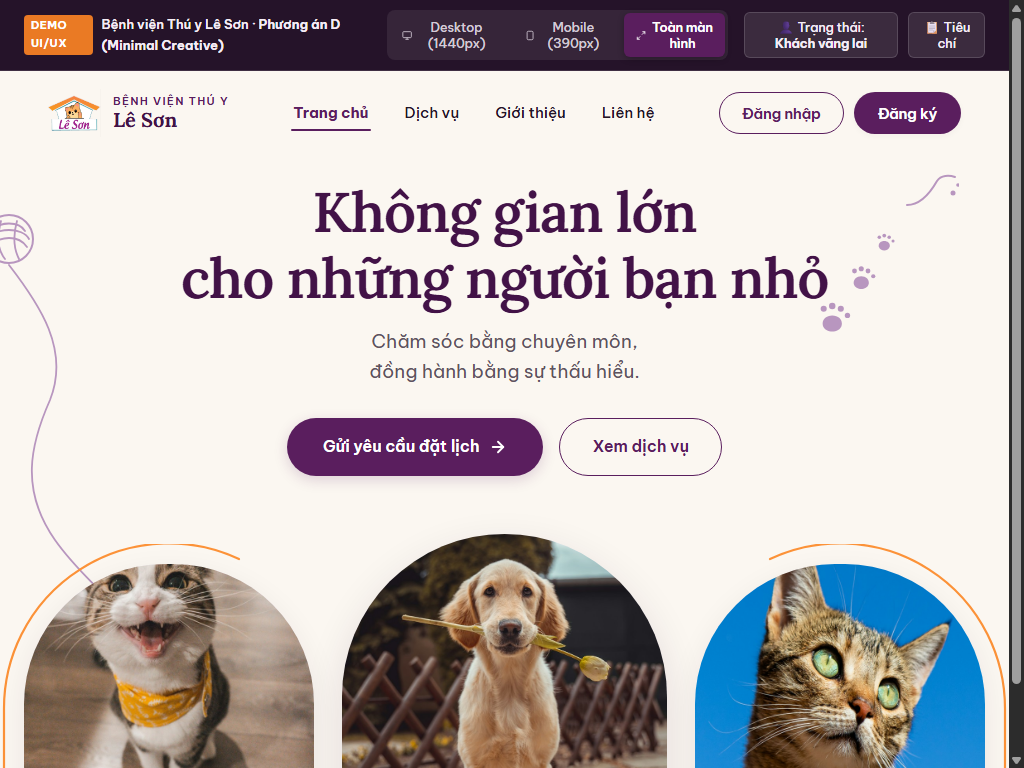
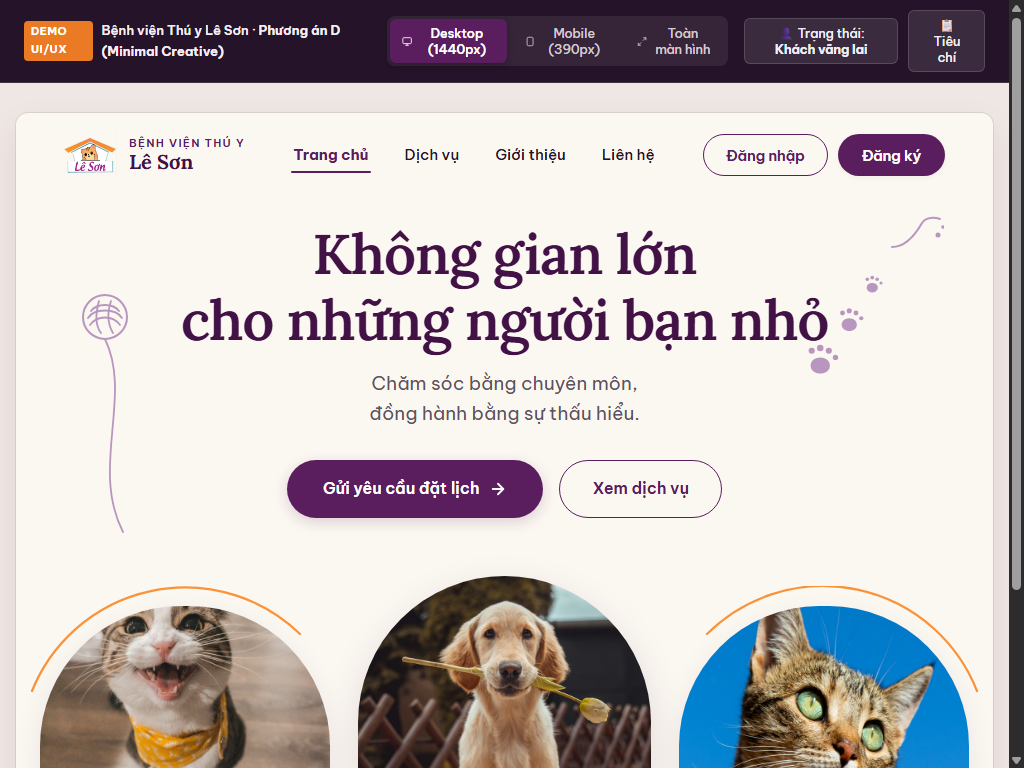
fix(hero): shorten yarn string and rebalance orange arc halos per user review

diff --git a/demo/index.html b/demo/index.html
@@ -147,18 +147,18 @@
           </svg>
         </div>
 
-        <!-- Bên trái: Cuộn len tím nhạt với sợi nối cong nhẹ hướng xuống chạm đỉnh ảnh mèo trái -->
+        <!-- Bên trái: Cuộn len tím nhạt với sợi nối cong nhẹ thanh thoát hướng xuống đỉnh ảnh mèo trái -->
         <div class="hero-decor-yarn" aria-hidden="true">
-          <svg width="170" height="480" viewBox="0 0 170 480" fill="none">
+          <svg width="90" height="250" viewBox="0 0 90 250" fill="none">
             <g transform="translate(6, 6)">
-              <circle cx="28" cy="28" r="24" stroke="#B896BF" stroke-width="2"/>
-              <path d="M12 20C18 10 38 10 44 20" stroke="#B896BF" stroke-width="1.8" stroke-linecap="round"/>
-              <path d="M8 28C14 16 42 16 48 28" stroke="#B896BF" stroke-width="1.8" stroke-linecap="round"/>
-              <path d="M10 36C18 24 38 24 46 36" stroke="#B896BF" stroke-width="1.8" stroke-linecap="round"/>
-              <path d="M20 10C16 26 16 38 24 48" stroke="#B896BF" stroke-width="1.8" stroke-linecap="round"/>
-              <path d="M36 10C32 24 32 36 38 48" stroke="#B896BF" stroke-width="1.8" stroke-linecap="round"/>
+              <circle cx="24" cy="24" r="22" stroke="#B896BF" stroke-width="2"/>
+              <path d="M10 18C16 10 32 10 38 18" stroke="#B896BF" stroke-width="1.8" stroke-linecap="round"/>
+              <path d="M7 25C13 15 35 15 41 25" stroke="#B896BF" stroke-width="1.8" stroke-linecap="round"/>
+              <path d="M9 32C16 22 32 22 39 32" stroke="#B896BF" stroke-width="1.8" stroke-linecap="round"/>
+              <path d="M18 8C14 22 14 32 20 40" stroke="#B896BF" stroke-width="1.8" stroke-linecap="round"/>
+              <path d="M30 8C26 20 26 30 32 40" stroke="#B896BF" stroke-width="1.8" stroke-linecap="round"/>
             </g>
-            <path d="M 34 60 C 65 100 95 145 75 195 C 55 240 45 285 80 335 C 108 375 142 395 147 418" stroke="#B896BF" stroke-width="1.8" stroke-linecap="round"/>
+            <path d="M 30 52 C 58 110, 15 180, 48 245" stroke="#B896BF" stroke-width="1.8" stroke-linecap="round"/>
           </svg>
         </div>
 
@@ -230,10 +230,10 @@
              ========================================================================== -->
         <div class="hero-arches-stage" role="region" aria-label="Hình ảnh thú cưng minh họa">
 
-          <!-- KHUNG 1 (TRÁI): Mèo vàng giơ chân chào + Cung cam ôm ngoài (Khe hở đều 20px) -->
+          <!-- KHUNG 1 (TRÁI): Mèo vàng giơ chân chào + Cung cam ôm ngoài (Khe hở đều 20px, vòm cam gọn gàng thanh thoát) -->
           <div class="pet-arch-wrapper pet-arch-wrapper-left">
             <svg class="pet-arch-halo pet-arch-halo-left" viewBox="0 0 350 300" fill="none" aria-hidden="true">
-              <path d="M 10 260 L 10 165 A 165 165 0 0 1 245 15" stroke="#FC9238" stroke-width="2.2" stroke-linecap="round"/>
+              <path d="M 22 105 A 165 165 0 0 1 290 48" stroke="#FC9238" stroke-width="2.2" stroke-linecap="round"/>
             </svg>
             <div class="pet-arch-card pet-arch-left" id="petArchLeft">
               <img src="assets/pet-left.png" alt="Ảnh minh họa: chú mèo mướp vui tươi đeo khăn vàng" class="pet-img" loading="eager">
@@ -245,10 +245,10 @@
             <img src="assets/pet-center.png" alt="Ảnh minh họa: chú chó Golden Retriever ngậm hoa tulip" class="pet-img" loading="eager">
           </div>
 
-          <!-- KHUNG 3 (PHẢI): Mèo vằn ngước nhìn tò mò + Cung cam ôm ngoài (Khe hở đều 20px) -->
+          <!-- KHUNG 3 (PHẢI): Mèo vằn ngước nhìn tò mò + Cung cam ôm ngoài (Khe hở đều 20px, vòm cam gọn gàng thanh thoát) -->
           <div class="pet-arch-wrapper pet-arch-wrapper-right">
             <svg class="pet-arch-halo pet-arch-halo-right" viewBox="0 0 350 300" fill="none" aria-hidden="true">
-              <path d="M 105 15 A 165 165 0 0 1 340 165 L 340 260" stroke="#FC9238" stroke-width="2.2" stroke-linecap="round"/>
+              <path d="M 58 48 A 165 165 0 0 1 328 105" stroke="#FC9238" stroke-width="2.2" stroke-linecap="round"/>
             </svg>
             <div class="pet-arch-card pet-arch-right" id="petArchRight">
               <img src="assets/pet-right.png" alt="Ảnh minh họa: chú mèo mướp mắt xanh ngước nhìn" class="pet-img" loading="eager">

diff --git a/demo/styles.css b/demo/styles.css
@@ -1081,11 +1081,11 @@ img {
   pointer-events: none;
 }
 
-/* Bên trái: Cuộn len ở x ≈ 15%, sợi cong nhẹ xuống chạm đúng đỉnh ảnh mèo trái */
+/* Bên trái: Cuộn len ở x ≈ 20%, sợi ngắn cong nhẹ thanh thoát nối xuống đỉnh ảnh mèo trái */
 .hero-decor-yarn {
   position: absolute;
-  top: 50px;
-  left: calc(50% - 530px);
+  top: 90px;
+  left: calc(50% - 430px);
   z-index: 1;
   pointer-events: none;
 }
